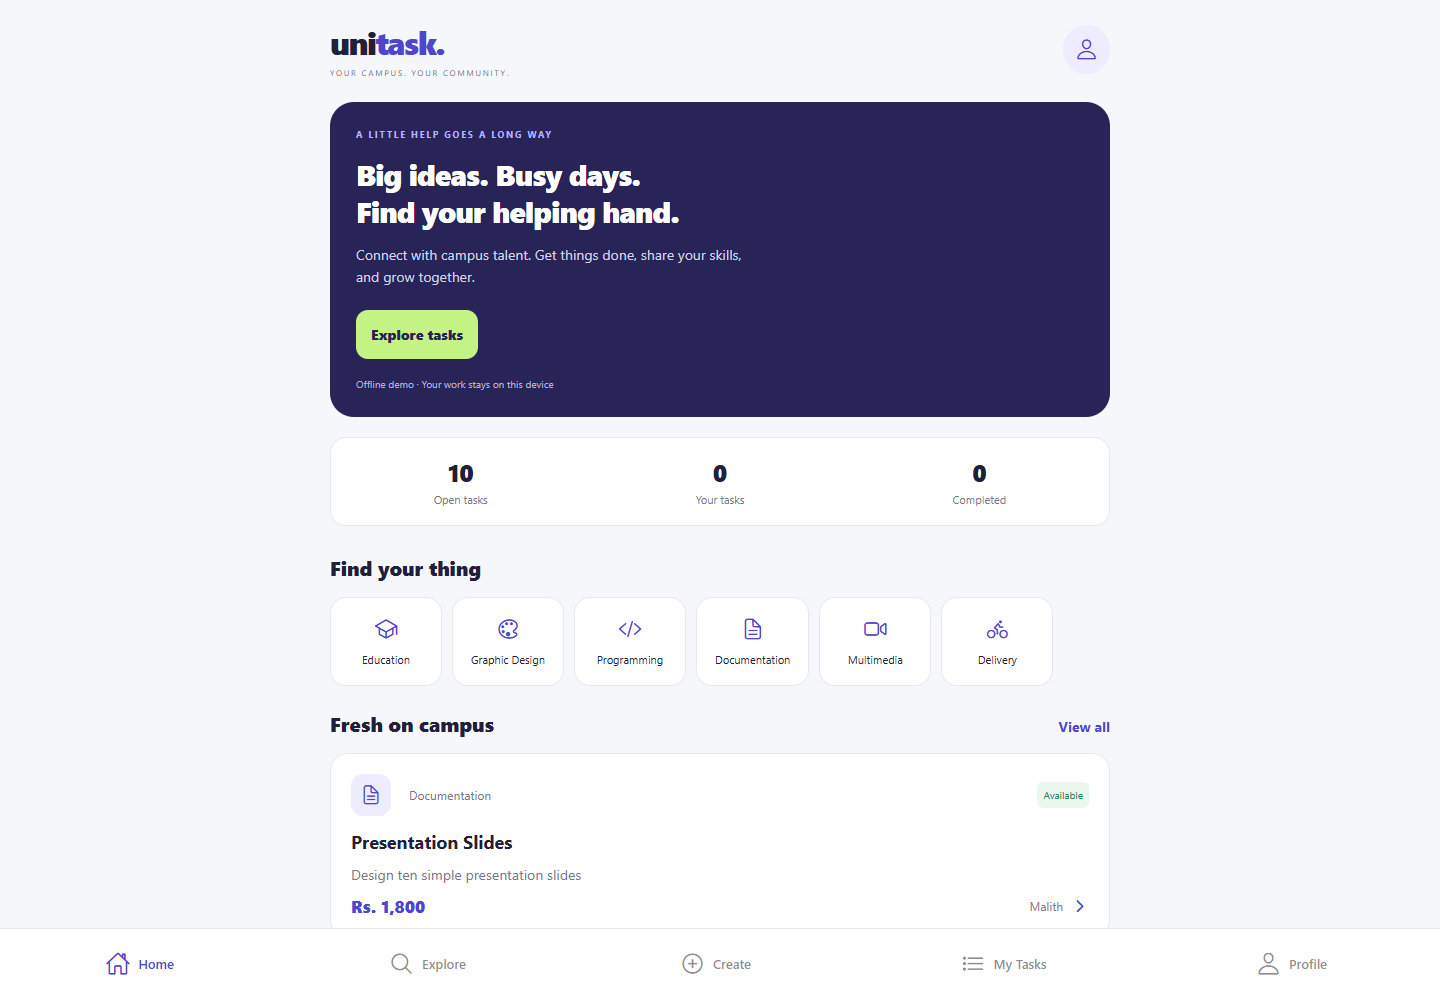
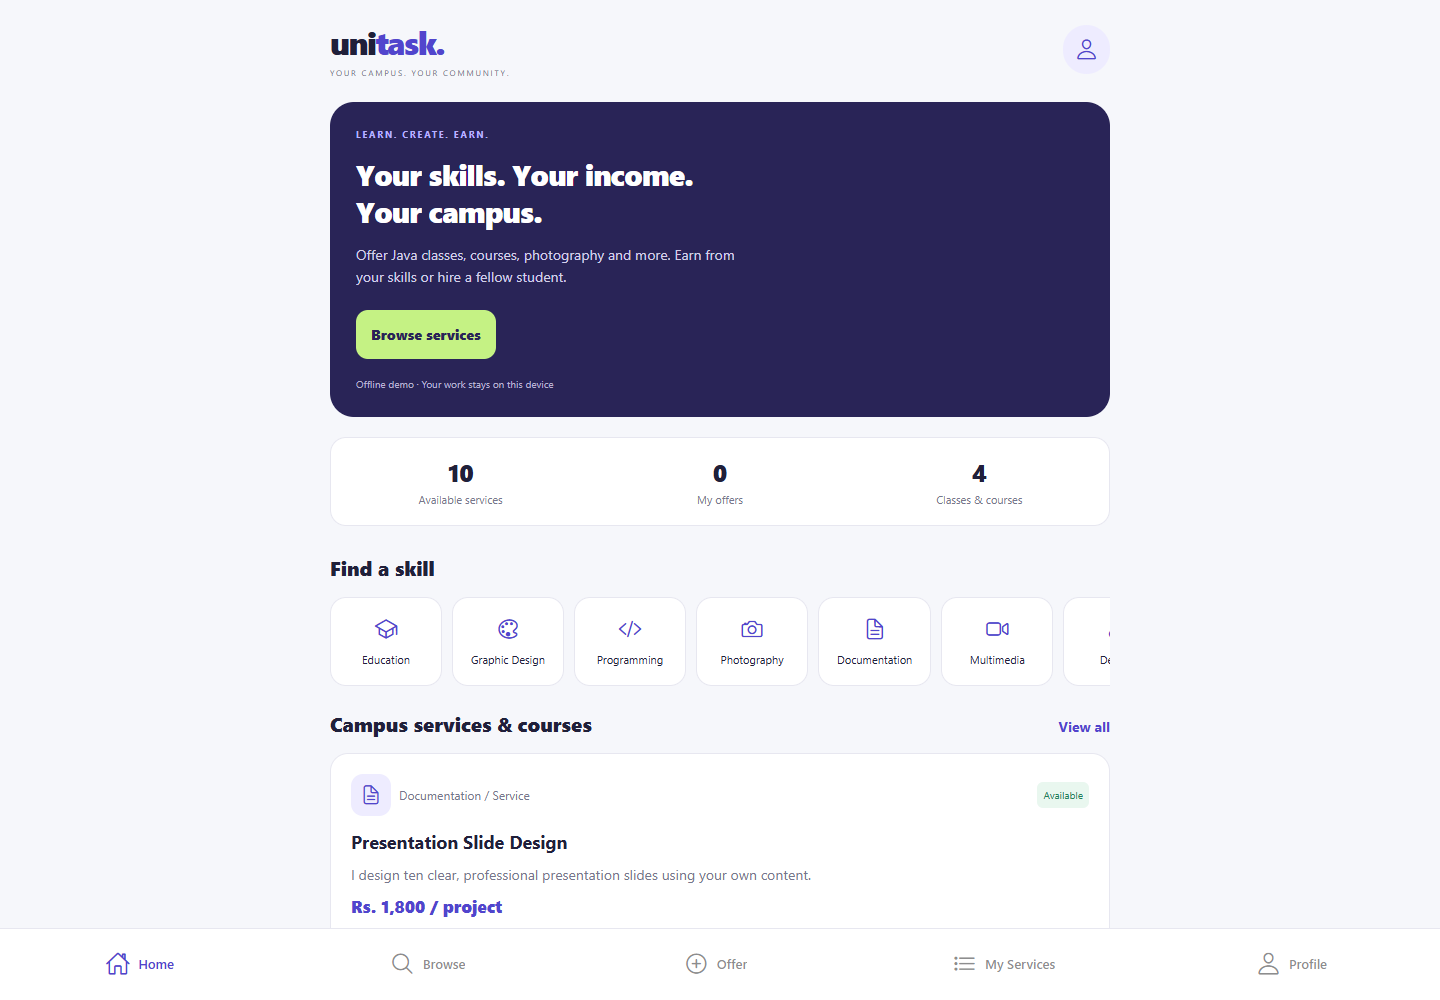
docs: document service offers and verified provider contact screens

diff --git a/README.md b/README.md
@@ -1,22 +1,39 @@
 # UniTask mobile
 
-A campus task marketplace built with **Expo SDK 58, React Native and Expo Router**. Screens and components use JavaScript (`.jsx`); TypeScript is used only to check JavaScript, with no TypeScript components.
+A campus skills marketplace where students earn from their skills and hire fellow students for paid services, courses and classes. Built with **Expo SDK 58, React Native and Expo Router**, using JavaScript/JSX throughout the application.
 
-Adapted from [UniTask web](https://github.com/YasanthaAthukorala/UniTask). Development lives on `feature/mobile-expo-refresh`.
+Examples: Java individual classes, a spoken English course, event photography, graphic design and programming mentoring. A student can offer services and hire other providers with the same account.
+
+Adapted from [UniTask web](https://github.com/YasanthaAthukorala/UniTask). The mobile refresh was merged into main; the service marketplace changes are on `feature/service-marketplace`.
+
+## Offer and discover services
+
+1. Open **Offer** and describe what you provide.
+2. Choose **Service**, **Course** or **Class**, a category, an LKR price, and a price unit: per hour, class, course, project or session.
+3. Add optional availability, your provider name, contact email and Sri Lankan phone number.
+4. Students browse/search by category and offering type, view the price and availability, and use **Call provider** or **Email provider** to discuss the offer. Online users can also **Hire this service**.
+
+Phone input accepts local numbers such as `0771234567`, international `+94771234567`, and `0094771234567`, with spaces, parentheses and hyphens. Landlines such as `0112345678` are supported. Numbers are stored in canonical `+94` format; malformed, foreign and overlong values are rejected without truncation. Both provider email and phone are required for new and edited listings in either mode. This validates format, not ownership.
+
+Contact information is visible on the listing. Phone and email links open the device's dialer or email composer; the user completes the call/message. The app does not process payments or automatically send messages.
 
 ## Preview
 
 Run `npm run web` and open **http://localhost:8081** (or the port printed by Expo).
 
-| Campus home | Browse and search | Create a task |
+| Campus home | Browse services | Offer a course |
 | --- | --- | --- |
-| ![Mobile home](docs/screenshots/home-mobile.png) | ![Explore tasks](docs/screenshots/explore-mobile.png) | ![Create task](docs/screenshots/create-mobile.png) |
+| ![Mobile home](docs/screenshots/home-mobile.png) | ![Browse services](docs/screenshots/explore-mobile.png) | ![Offer a course](docs/screenshots/create-mobile.png) |
 
-Screenshots are captured from the running Expo web application at a mobile viewport by the browser test. Desktop preview: [home screenshot](docs/screenshots/home-desktop.png).
+| Provider contact form | Provider details and contact links |
+| --- | --- |
+| ![Contact fields](docs/screenshots/create-contact-mobile.png) | ![Provider details](docs/screenshots/provider-contact-mobile.png) |
+
+Screenshots come from the running Expo web application at a mobile viewport. Desktop preview: [home screenshot](docs/screenshots/home-desktop.png).
 
 ## Run locally
 
-Use Node.js 22 LTS or newer and npm. This repository uses `package-lock.json`.
+Use Node.js 22.13 or newer and npm. This repository uses `package-lock.json`.
 
 ```sh
 npm ci
@@ -25,60 +42,67 @@ npm run web
 npm start
 ```
 
-For a physical device, connect the phone and computer to the same network. SDK 58 requires a compatible Expo Go version or a development build; check current Expo Go SDK support. Windows can run the web preview and Android emulator; an iOS simulator requires macOS. Native folders are generated by Expo and are not maintained manually.
+For a physical device, connect the phone and computer to the same network and use an SDK-compatible Expo Go or development build. Native folders are generated by Expo and are not maintained manually.
 
 ## Two modes
 
-**Offline demo (default):** SQLite persists sample listings, your created tasks, edits, status changes, and favorites on the current device. Ten listings seed once. Search, category filtering, budget sorting, task details, owner-only editing/deletion, and four task statuses work without a server. Browser SQLite requires WebAssembly and cross-origin isolation; Metro is configured with the required headers. Clearing site/app storage resets the demo.
+**Offline demo (default):** SQLite persists your service/course listings, provider contact details, pricing units, availability, edits, booking status and favorites on the current device. Ten sample offers seed once on new installations. Sample providers have no live phone/email, so their contact buttons remain hidden. Old installations retain their existing listings and favorites; the additive migration supplies safe defaults for the new fields and preserves old deadlines without showing them in the service form. No data reset is required. Deleting listings does not cause them to reappear.
 
-**Online accounts:** copy `.env.example` to `.env.local`, set `EXPO_PUBLIC_API_URL` to your running UniTask Express API origin, and restart Expo. Open Profile > Sign in / Register. Online mode uses the web API for registration/login, shared listings, owner CRUD, hiring, completed-gig reviews, and notifications (refreshed every 30 seconds while the screen is open). Contact email and Sri Lankan phone format are validated when posting online. Favorites and deadlines belong to the offline demo; the web API does not provide these fields.
+Offline offers stay on the current device. For shared publishing and the in-app hiring action, configure the backend and sign in. Browser SQLite needs WebAssembly and cross-origin isolation; Metro supplies the required headers.
+
+**Online accounts:** copy `.env.example` to `.env.local`, set `EXPO_PUBLIC_API_URL` to your running UniTask Express API origin, and restart Expo. Open **Profile > Sign in / Register**. The API supports registration/login, shared listings, owner editing/deletion, hiring, completed-service reviews, and notifications (refreshed every 30 seconds while that screen is open).
 
 ```dotenv
 EXPO_PUBLIC_API_URL=https://your-unitask-api.example.com
 ```
 
-For Android emulators use `http://10.0.2.2:8000`; for phones use your computer's LAN IP instead of localhost. The server needs its own MongoDB configuration and JWT secret; follow the web repository instructions. Do not copy server secrets into this app. `EXPO_PUBLIC_*` values are public. Use HTTPS for deployed APIs. Sign-in tokens are held only in memory and cleared on sign-out/restart; offline tasks remain separate from server listings and are never uploaded automatically.
+The existing API already stores contact email and phone. To retain compatibility with its original field allowlist, the mobile adapter stores listing type, pricing unit, availability and provider display name in a readable service-details footer in the description. The mobile app decodes the footer when reading/editing; older web clients display it as readable text. Legacy API listings without a footer default to Service / Per project. The original API routes and booking statuses are retained.
+
+For Android emulators use `http://10.0.2.2:8000`; for phones use your computer's LAN IP instead of localhost. Configure MongoDB and JWT secrets on the server, following the web repository instructions. Never put server secrets into this app; `EXPO_PUBLIC_*` values are public. Use HTTPS for deployed APIs. Sign-in tokens stay in memory and clear on sign-out/restart. Offline listings are not automatically uploaded. Favorites remain an offline feature.
 
 ## Checks
 
 ```sh
 npx expo lint
 npx tsc --noEmit
+npm test
+# Start Expo web first:
+npm run test:web
+# Dependency/config diagnostics when changing dependencies:
 npx expo install --check
 npx expo-doctor
-npm run test:api
-# Start Expo web first, then run the browser workflow:
-npx playwright test
 ```
 
-Browser tests use installed Microsoft Edge by default. Alternatively run `npx playwright install chromium` and set `PLAYWRIGHT_CHANNEL=chromium` in your shell. Tests cover search/category filtering, favorites, task creation/editing/status/deletion, persistence across reload, and capture the screenshots above. Live backend integration and physical Android/iOS behavior require separate testing with your server/devices.
+Unit tests cover phone/email validation, API contact/metadata round trips, preservation of an old SQLite database, migration idempotency and one-time seeding. Database tests use Node's built-in SQLite. API tests mock transport rather than a deployed server.
+
+Browser tests use installed Microsoft Edge by default. Alternatively install Chromium with `npx playwright install chromium` and set `PLAYWRIGHT_CHANNEL=chromium`. The workflow checks filters, favorites, invalid contacts, publishing a paid course, contact links, reload persistence, owner edits, status changes and deletion; it also captures the screenshots above. It does not place calls or send email. Physical Android/iOS link handling and live backend behavior require separate device/server validation.
+
+Validation on 2026-11-15: lint, JavaScript typecheck, all 6 unit/database/API tests and the browser workflow passed. All six screenshots were refreshed and visually reviewed.
 
 ## Source layout
 
 ```text
 src/app/          Expo Router routes and JSX layouts
-src/components/   Shared task cards and validated form
-src/constants/    Theme, categories and icons
-src/database/     SQLite initialization and repository/API adapter
+src/components/   Shared listing cards and service form
+src/constants/    Theme, categories, offering types and price units
+src/database/     SQLite migration/seeding and repository/API adapter
 src/services/     API transport and memory-only session
-src/data/         Offline sample tasks
-src/utils/        Cross-platform dialogs
-tests/           Browser workflow checks
+src/data/         Offline sample services, courses and classes
+src/utils/        Contact validation, API compatibility and dialogs
+tests/            Unit, database, API contract and browser checks
 docs/screenshots/ Actual application captures
 ```
 
+Existing internal task route names and database/API identifiers are kept to preserve links and compatibility; user-facing screens use service marketplace terminology.
+
 ## Shutdown recovery
 
-Read [DEVELOPMENT_LOG.md](DEVELOPMENT_LOG.md) first, then run `git status`, `git log -5 --oneline`, and restart Expo if needed. The log records milestones, checks, limitations and next steps; logical commits are pushed to the feature branch throughout development.
+Read [DEVELOPMENT_LOG.md](DEVELOPMENT_LOG.md), then inspect `git status`, recent commits and any existing Expo listener before starting another server.
 
-### Windows preview recovery
-
-If Metro stalls before opening its port on this machine, run this PowerShell command:
+If Metro stalls before opening its port on this Windows machine, use:
 
 ```powershell
 $env:CI='1'; $env:EXPO_OFFLINE='1'; npx expo start --web --port 8081 --max-workers 2
 ```
 
-CI mode disables automatic reloads; restart Expo after source changes. Clear the variables in a new terminal for normal development.
-
-Validation: lint, JavaScript typecheck, SDK dependency alignment, all 20 Expo Doctor checks, API adapter contract test, and the offline browser workflow passed during development. API contract tests use a mocked transport; they do not verify a deployed backend.
+CI mode disables automatic reloads. Restart Expo after source edits.

diff --git a/DEVELOPMENT_LOG.md b/DEVELOPMENT_LOG.md
@@ -71,3 +71,22 @@ Read this file, git status, git log, then inspect any running Expo process befor
 - Opened localhost in the user's browser. Startup logs: .expo/recovery-preview.log and .expo/recovery-preview-errors.log (ignored by Git).
 - Existing final screenshots and successful offline workflow verification remain valid; live backend/device validation still requires the user's API and devices.
 - Future recovery: read the latest section, check for a process/listener before starting a duplicate, and use the Windows preview command in README.md.
+
+
+## Service marketplace implementation - 2026-11-15
+- User requested a provider-led campus marketplace for paid services, courses and classes, including Sri Lankan phone numbers and email contacts.
+- Working on feature/service-marketplace. Preserve existing listings and favorites with an additive SQLite migration; retain the original API routes and preserve new metadata through a readable description footer for compatibility with the existing backend.
+- Form, contact validation, repository and migration implementation started. Next: marketplace screens, focused migration/contact/API/browser verification, screenshots, lint/typecheck, commit/push and preview refresh.
+
+
+## Service marketplace verified - 2026-11-15
+- Implemented and committed the marketplace source/tests as f24be07 on feature/service-marketplace.
+- Replaced task-facing screens with Browse, Offer, My Services and Service details; added Service/Course/Class types, Photography, LKR price units, availability and provider name.
+- New and edited listings require an email and Sri Lankan mobile/landline phone in both modes. Local/international formats normalize to +94 without truncation; details show selectable contacts and Call/Email links.
+- Existing SQLite listings, favorites, statuses and deadlines survive the additive versioned migration. New installations seed ten provider-led examples without real contact numbers; deleted seeds never return.
+- Original backend API endpoints/field allowlist remain compatible: additional service metadata round-trips through a readable description footer. No backend deployment or native dependencies were added.
+- Validation passed: npx expo lint; npx tsc --noEmit; npm test (6 tests covering contacts, API compatibility and real SQLite migrations); npm run test:web (1 workflow passed, final capture run 20.2 seconds, no page or console errors).
+- Browser workflow verified type/category/search filters, favorites, invalid email/phone rejection, paid-course creation, normalized contact links, persistence across reload, contact editing with a landline, completion and deletion.
+- Fixed a missing-contact render warning discovered by the browser check. Refreshed and visually reviewed six screenshots, including provider form/details; strict UTF-8 validation passed for all 27 source/test files and whitespace checks passed.
+- Current preview: http://localhost:8081/home, Expo session 61365, server PID 2216; CI=1 EXPO_OFFLINE=1 --max-workers 2. Restart after source edits and inspect the listener before launching another process.
+- Remaining external validation: deployed API integration and real Android/iOS dialer/email behavior. Shared publishing and in-app hiring require the configured backend; offline demo listings stay on the current device.
